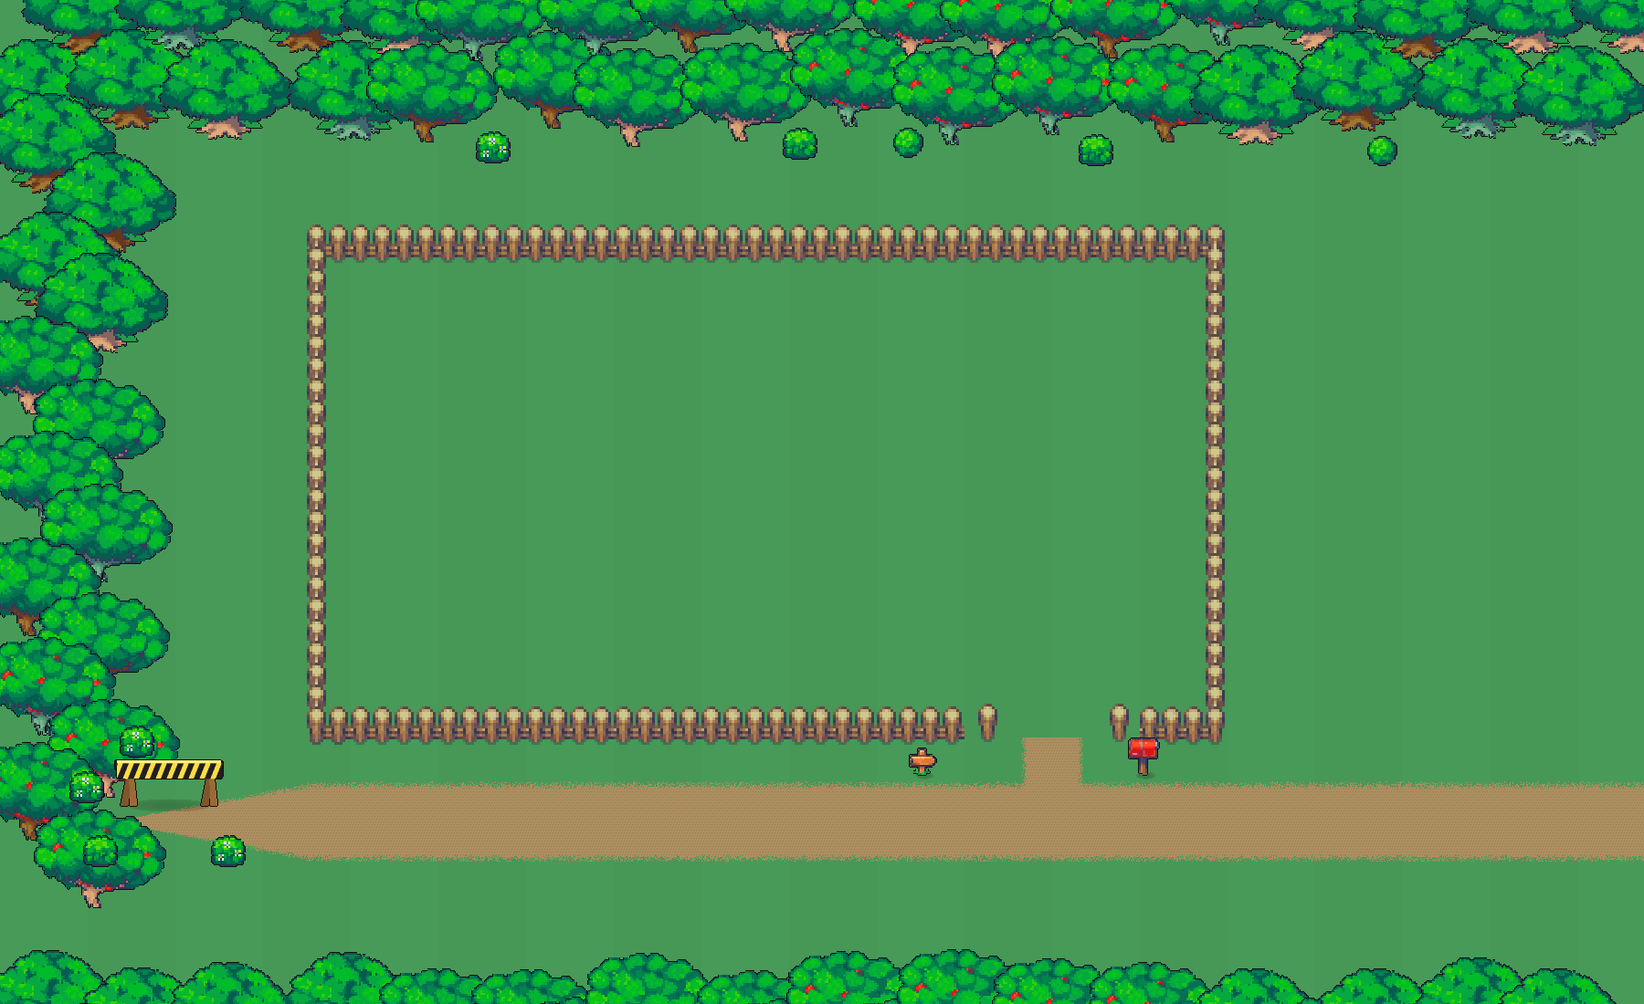
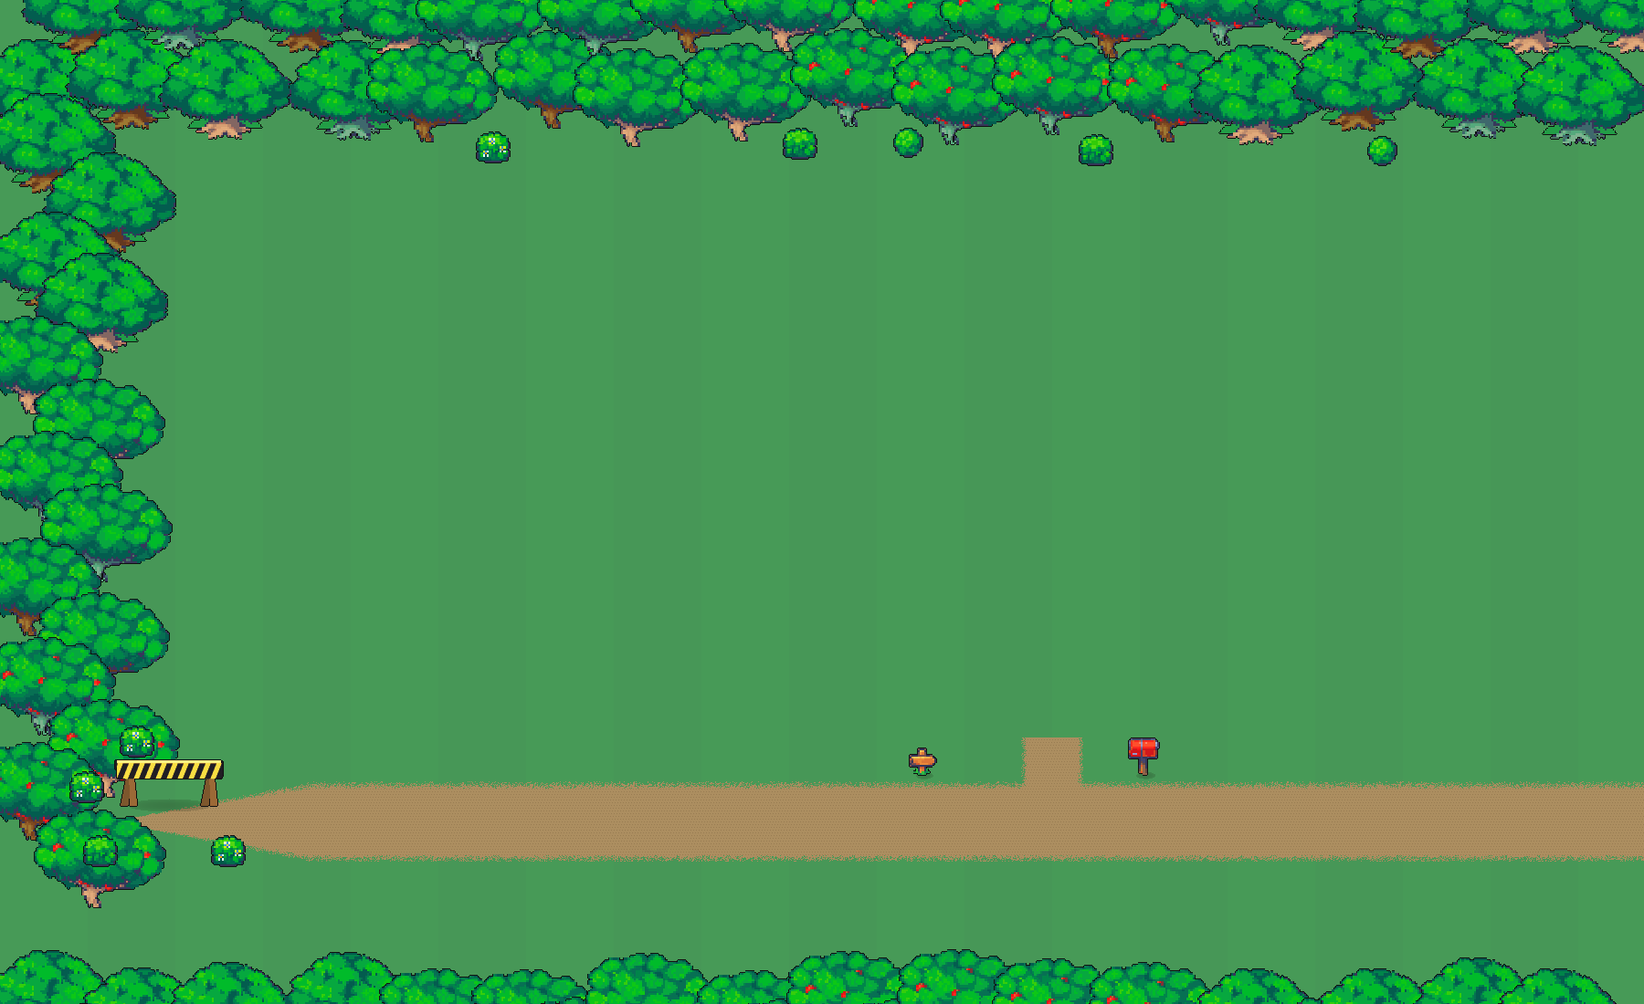
🌱 THE LAND GROWS WITH THE LADDER — tiered fences
Trym: "A tent should have the least amount of space, level 2 some more,
and level 3 houses maximum space."

  ⛺ tier 1 — a cosy fenced corner by the gate (528×384)
  🛖 tier 2 — the fence pushes west and north (768×480)
  🏠 tier 3 — the whole clearing is yours (1008×576)

Nested rects share the south-east corner and the ONE gate, so growth
only ever ADDS land — nothing placed is orphaned by an upgrade. The
fence left the baked plate entirely: each tier ships ov-fyard<t> (north
+ verticals, low z) + ov-fsouth<t> (south row, y-sorted so the pickets
overflow the banana), swapped live by refreshFence() with their own
colliders. Upgrading re-fences on the spot: "🌱 the fence moved out —
more land is yours."

Placement, ghost clamps, and the claim trigger all read the CURRENT
tier's plot; tent + bed defaults moved inside the tier-1 yard; legacy
saves with out-of-fence spots come home to the defaults. The ?hstest
tent/full scenarios were re-laid inside tier 1 (28 items in the cosy
yard = a proper density stress), max pins its pre-tier layout.

Verified in-pane: tier-1 postcard (tent + bed + 28-item full), tier 2
and 3 fence swaps, gate routing, bed collider.

Changed region(s): [[0.1867, 0.2164, 0.7467, 0.7418]]

diff --git a/src/scripts/banana-homestead.js b/src/scripts/banana-homestead.js
@@ -12,7 +12,7 @@ import { mountHud, coinBalance } from '../lib/world-hud.js';
 import { initTravel } from './world-travel.js';
 import { askName } from '../lib/banana-id.js';
 import { worldOwner, worldSid } from '../lib/world.js';
-import { WORLD, BOUND, ROAD, GATE, SPAWN, FENCE, PLOT, BED, TENT, STRUCTS, STRUCT_STYLES,
+import { WORLD, BOUND, ROAD, GATE, SPAWN, FENCE_TIERS, BED, TENT, STRUCTS, STRUCT_STYLES,
   MAILBOX, SIGN, OB_RECTS, OVERLAYS } from './homestead-geo.js';
 import { DECOR } from '../data/decor.js';
 
@@ -102,29 +102,26 @@ function applyTestScenario(kind) {
     return;
   }
   if (kind === 'claimed') s = base;
+  // ⚠ 'tent'/'full' are stage 1 = the TIER-1 yard (x 864-1296, y 494-768,
+  // tent at 1000,560, bed at 1010,730) — every position must fit INSIDE it
   if (kind === 'tent') {
     s = { ...base, stage: 1,
-      items: [{ id: 'sunflower', x: 480, y: 520 }, { id: 'bench', x: 640, y: 380 }],
+      items: [{ id: 'sunflower', x: 900, y: 540 }, { id: 'bench', x: 1150, y: 530 }],
       shed: [{ id: 'lantern' }] };
   }
   if (kind === 'full') {
+    const ids = ['sunflower', 'redflower', 'blueflower', 'pinkvase', 'bush', 'bush2',
+      'stump', 'mushrooms', 'flowerbush', 'lantern', 'bench', 'table', 'chair',
+      'campfire', 'scarecrow', 'bananacrate'];
+    const spots = [
+      [880, 510], [1075, 510], [1130, 510], [1185, 510], [1240, 510],
+      [880, 560], [1080, 562], [1135, 560], [1190, 562], [1245, 560],
+      [880, 610], [935, 612], [990, 610], [1045, 612], [1100, 610], [1155, 612], [1210, 610], [1265, 612],
+      [1180, 660], [1235, 662], [1180, 712], [1240, 710],
+      [880, 762], [940, 760], [1000, 762], [1060, 760], [1120, 762], [1180, 760],
+    ];
     s = { ...base, stage: 1,
-      items: [
-        { id: 'statue', x: 430, y: 410 }, { id: 'bench', x: 620, y: 360 },
-        { id: 'table', x: 1050, y: 400 }, { id: 'campfire', x: 890, y: 580 },
-        { id: 'lantern', x: 990, y: 540 }, { id: 'lantern', x: 1180, y: 470 },
-        { id: 'sunflower', x: 400, y: 330 }, { id: 'redflower', x: 445, y: 340 },
-        { id: 'blueflower', x: 490, y: 330 }, { id: 'pinkvase', x: 545, y: 350 },
-        { id: 'bush', x: 1250, y: 350 }, { id: 'bush', x: 1230, y: 560 },
-        { id: 'stump', x: 960, y: 660 }, { id: 'scarecrow', x: 560, y: 540 },
-        { id: 'sunflower', x: 1120, y: 340 }, { id: 'redflower', x: 1165, y: 355 },
-        { id: 'blueflower', x: 600, y: 330 }, { id: 'pinkvase', x: 655, y: 345 },
-        { id: 'sunflower', x: 705, y: 330 }, { id: 'bush', x: 420, y: 480 },
-        { id: 'bush', x: 400, y: 630 }, { id: 'stump', x: 430, y: 730 },
-        { id: 'lantern', x: 1140, y: 720 }, { id: 'campfire', x: 1255, y: 700 },
-        { id: 'table', x: 910, y: 340 }, { id: 'bench', x: 1000, y: 320 },
-        { id: 'statue', x: 1255, y: 630 }, { id: 'scarecrow', x: 850, y: 710 },
-      ],
+      items: spots.map(([x, y], i) => ({ id: ids[i % ids.length], x, y })),
       shed: [{ id: 'bush' }, { id: 'stump' }, { id: 'pinkvase' }],
       bed: [
         { crop: 'tomato', waters: 0, last: '', planted: day },
@@ -156,7 +153,10 @@ function applyTestScenario(kind) {
     const fillers = ['bush', 'bush2', 'flowerbush', 'sunflower', 'redflower', 'blueflower'];
     let fi = 0;
     while (items.length < 56) { put2(fillers[fi % fillers.length], 980 + (fi % 5) * 68, 660 + Math.floor(fi / 5) * 52); fi++; }
+    // 'max' predates the land tiers: its layout was placed around the house at
+    // (760,430) and the bed at (610,700) — pin those spots explicitly
     s = { ...base, stage: 3, items,
+      home: { x: 760, y: 430 }, bedAt: { x: 610, y: 700 },
       shed: [{ id: 'statue' }, { id: 'fountain' }, { id: 'coop' }, { id: 'bananacrate' }],
       bed: [
         { crop: 'tomato', waters: 3, last: '', planted: day },
@@ -196,6 +196,14 @@ function init(visitDoc, visitMiss) {
   const pct = (v, span) => (v / span * 100) + '%';
 
   const state = visiting ? visitDoc : withHome(loadState());
+  {
+    // legacy fixup: saves minted before the land tiers may hold spots that
+    // now sit OUTSIDE the current fence — those come home to the defaults
+    const P = FENCE_TIERS[Math.max(1, Math.min(state.stage, 3))].plot;
+    const inP = (p) => p && p.x > P[0] - 60 && p.x < P[2] + 60 && p.y > P[1] - 60 && p.y < P[3] + 60;
+    if (!inP(state.home)) state.home = { x: TENT.x, y: TENT.y };
+    if (!inP(state.bedAt)) state.bedAt = { x: BED.def.x, y: BED.def.y };
+  }
   // ⚠ a visitor's save is a NO-OP twice over: never write their yard into
   // hs-v1, never push their yard to the DO as ours
   const save = visiting ? () => {} : () => {
@@ -295,6 +303,33 @@ function init(visitDoc, visitMiss) {
     world.appendChild(d);
   });
 
+  // ---- 🌱 THE LAND GROWS WITH THE LADDER ----------------------------------
+  // tent = a cosy corner, a real roof pushes the fence out, the house takes
+  // the whole clearing (Trym). Two overlays per tier: the yard rows sit low,
+  // the south row y-sorts so the pickets overflow the banana.
+  const fenceTier = () => Math.max(1, Math.min(state.stage, 3));
+  const plotNow = () => FENCE_TIERS[fenceTier()].plot;
+  let fenceCols = [], fenceEls = [], fenceOn = 0;
+  function refreshFence() {
+    const t = fenceTier();
+    if (t === fenceOn) return;
+    fenceOn = t;
+    const ft = FENCE_TIERS[t];
+    fenceCols = ft.cols;
+    fenceEls.forEach((el) => el.remove());
+    fenceEls = [ft.yard, ft.south].map((o) => {
+      const d = document.createElement('div');
+      d.className = 'hs-ov';
+      d.style.left = pct(o[1], W); d.style.top = pct(o[2], H);
+      d.style.width = pct(o[3], W); d.style.height = pct(o[4], H);
+      d.style.backgroundImage = "url('/assets/homestead/" + o[0] + "')";
+      depth(d, o[5]);
+      world.appendChild(d);
+      return d;
+    });
+  }
+  refreshFence();
+
   // the sign carries the homestead's NAME — the whole point of the sign
   const signName = document.createElement('div');
   signName.className = 'hs-signname';
@@ -393,6 +428,7 @@ function init(visitDoc, visitMiss) {
     if (x < BOUND || y < BOUND || y > H - BOUND) return true;
     if (x > W - BOUND && !inRoadLane(y)) return true;      // east = the road out
     for (const r of OB_RECTS) if (inRect(x, y, r)) return true;
+    for (const r of fenceCols) if (inRect(x, y, r)) return true;
     for (const r of liveRects) if (inRect(x, y, r)) return true;
     return false;
   }
@@ -875,8 +911,9 @@ function init(visitDoc, visitMiss) {
   // ---- 🪴 placing: the ghost + the confirm bar -----------------------------
   const snap = (v) => Math.round(v / 24) * 24;
   function spotOk(d, x, y) {
-    if (x - d.w / 2 < PLOT[0] || x + d.w / 2 > PLOT[2]) return false;
-    if (x < PLOT[0] + 10 || x > PLOT[2] - 10 || y < PLOT[1] + 24 || y > PLOT[3] - 6) return false;
+    const P = plotNow();
+    if (x - d.w / 2 < P[0] || x + d.w / 2 > P[2]) return false;
+    if (x < P[0] + 10 || x > P[2] - 10 || y < P[1] + 24 || y > P[3] - 6) return false;
     if (inRect(x, y, [state.bedAt.x - BED.w / 2 - 26, state.bedAt.y - BED.h - 46, state.bedAt.x + BED.w / 2 + 26, state.bedAt.y + 16])) return false;
     // keep clear of the structure's FOOTPRINT only — the front yard below the
     // porch stays decoratable (the max stress test caught the old box banning it)
@@ -894,8 +931,9 @@ function init(visitDoc, visitMiss) {
   function startPlacing(id, moving) {
     cancelPlacing();
     const d = DEX[id];
-    const x = snap(moving ? moving.x : Math.max(PLOT[0] + 60, Math.min(PLOT[2] - 60, pos.x)));
-    const y = snap(moving ? moving.y : Math.max(PLOT[1] + 60, Math.min(PLOT[3] - 30, pos.y)));
+    const P = plotNow();
+    const x = snap(moving ? moving.x : Math.max(P[0] + 60, Math.min(P[2] - 60, pos.x)));
+    const y = snap(moving ? moving.y : Math.max(P[1] + 60, Math.min(P[3] - 30, pos.y)));
     placing = { id, x, y, el: itemDiv({ id, x, y }, true), moving: moving || null };
     camFree = { x, y };   // one glide to the ghost — after this, only drags pan
     if (moving) { refreshItems(); }   // the original disappears while it moves
@@ -910,8 +948,9 @@ function init(visitDoc, visitMiss) {
   const fixDims = () => placing.key === 'bed' ? { w: BED.w, h: BED.h } : STRUCTS[placing.key];
   function homeOk(x, y) {
     const d = fixDims();
-    if (x - d.w / 2 < PLOT[0] - 2 || x + d.w / 2 > PLOT[2] + 2) return false;
-    if (y - d.h < PLOT[1] - 44 || y > PLOT[3] - 8) return false;
+    const P = plotNow();
+    if (x - d.w / 2 < P[0] - 2 || x + d.w / 2 > P[2] + 2) return false;
+    if (y - d.h < P[1] - 44 || y > P[3] - 8) return false;
     const foot = [x - d.w * 0.52, y - d.h * 0.62, x + d.w * 0.52, y + 12];
     if (placing.key !== 'bed') {   // structures keep off the bed…
       const b = [state.bedAt.x - BED.w / 2 - 20, state.bedAt.y - BED.h - 40, state.bedAt.x + BED.w / 2 + 20, state.bedAt.y + 16];
@@ -976,8 +1015,11 @@ function init(visitDoc, visitMiss) {
     camFree = null;
     view.classList.remove('is-placing');
     save();
+    const grew = fenceTier() !== fenceOn;
+    refreshFence();
     refreshTent(); refreshBed(); rebuildSolids(); refreshItems(); refreshHud();
     float(x, y - (key === 'bed' ? BED.h : STRUCTS[key].h) - 8, '✓');
+    if (grew) setTimeout(() => toast('🌱 the fence moved out — more land is yours'), 1400);
   }
 
   function updateGhost() {
@@ -1149,11 +1191,13 @@ function init(visitDoc, visitMiss) {
     const wy = (e.clientY - r.top + camY) / scale;
     if (placing.home) {
       const d = fixDims();
-      placing.x = snap(Math.max(PLOT[0] + d.w / 2, Math.min(PLOT[2] - d.w / 2, wx)));
-      placing.y = snap(Math.max(PLOT[1] + Math.min(d.h * 0.5, 120), Math.min(PLOT[3] - 10, wy)));
+      const P = plotNow();
+      placing.x = snap(Math.max(P[0] + d.w / 2, Math.min(P[2] - d.w / 2, wx)));
+      placing.y = snap(Math.max(P[1] + Math.min(d.h * 0.5, 120), Math.min(P[3] - 10, wy)));
     } else {
-      placing.x = snap(Math.max(PLOT[0] + 12, Math.min(PLOT[2] - 12, wx)));
-      placing.y = snap(Math.max(PLOT[1] + 26, Math.min(PLOT[3] - 8, wy)));
+      const P = plotNow();
+      placing.x = snap(Math.max(P[0] + 12, Math.min(P[2] - 12, wx)));
+      placing.y = snap(Math.max(P[1] + 26, Math.min(P[3] - 8, wy)));
     }
     updateGhost();
   }
@@ -1323,7 +1367,8 @@ function init(visitDoc, visitMiss) {
       depth(meEl, pos.y);
     }
     // stepping INTO the yard (through the south gate) triggers the claim
-    if (!state.claimedAt && pos.x > FENCE[0] && pos.x < FENCE[2] && pos.y < FENCE[3] - 26) offerClaim();
+    const F1 = FENCE_TIERS[1].fence;
+    if (!state.claimedAt && pos.x > F1[0] && pos.x < F1[2] && pos.y > F1[1] && pos.y < F1[3] - 26) offerClaim();
     drawMe();
     doorTick();
     cam();

diff --git a/src/scripts/homestead-geo.js b/src/scripts/homestead-geo.js
@@ -7,11 +7,13 @@ export const SPAWN = { x: 1650, y: 900 };
 export const EXIT_EAST = { x: 1760, y: 900, r: 60 };
 export const FENCE = [336, 240, 1344, 816];
 export const PLOT = [384, 302, 1296, 768];
-export const BED = { w: 280, h: 100, def: { x: 610, y: 700 }, slots: [[-90, -32], [-20, -32], [50, -32], [120, -32]] };
-export const TENT = { x: 760, y: 430, w: 140, h: 136, solid: [-62, -20, 62, 4] };
+// 🌱 land grows with the ladder: stage 0-1 → tier 1, 2 → 2, 3 → 3
+export const FENCE_TIERS = {"1": {"fence": [816, 432, 1344, 816], "plot": [864, 494, 1296, 768], "cols": [[816, 450, 1344, 464], [816, 786, 1104, 812], [1200, 786, 1344, 812], [818, 450, 836, 786], [1320, 450, 1340, 786]], "yard": ["ov-fyard1.png", 816, 432, 528, 336, 464], "south": ["ov-fsouth1.png", 816, 764, 528, 56, 816]}, "2": {"fence": [576, 336, 1344, 816], "plot": [624, 398, 1296, 768], "cols": [[576, 354, 1344, 368], [576, 786, 1104, 812], [1200, 786, 1344, 812], [578, 354, 596, 786], [1320, 354, 1340, 786]], "yard": ["ov-fyard2.png", 576, 336, 768, 432, 368], "south": ["ov-fsouth2.png", 576, 764, 768, 56, 816]}, "3": {"fence": [336, 240, 1344, 816], "plot": [384, 302, 1296, 768], "cols": [[336, 258, 1344, 272], [336, 786, 1104, 812], [1200, 786, 1344, 812], [338, 258, 356, 786], [1320, 258, 1340, 786]], "yard": ["ov-fyard3.png", 336, 240, 1008, 528, 272], "south": ["ov-fsouth3.png", 336, 764, 1008, 56, 816]}};
+export const BED = { w: 280, h: 100, def: { x: 1010, y: 730 }, slots: [[-90, -32], [-20, -32], [50, -32], [120, -32]] };
+export const TENT = { x: 1000, y: 560, w: 140, h: 136, solid: [-62, -20, 62, 4] };
 export const STRUCT_STYLES = {1: ["tent1", "tent2", "tent3", "tent4", "tent5", "tent6"], 2: ["mob1", "mob2", "mob3", "mob4", "mob5", "mob6", "mob7", "mob8", "mobm1", "mobm2", "mobm3", "mobm4", "mobm5", "mobm6", "mobm7", "mobm8", "barn", "hloftgreen", "hloftgrey", "hloftred", "hloftyellow"], 3: ["country", "haunted", "japanese", "villa1", "villa2", "villa3", "villa4", "villa5", "condoa", "condo6", "condo9"]};
 export const STRUCTS = { tent1: { w: 140, h: 136 }, tent2: { w: 140, h: 136 }, tent3: { w: 140, h: 136 }, tent4: { w: 117, h: 92 }, tent5: { w: 117, h: 92 }, tent6: { w: 117, h: 92 }, mob1: { w: 282, h: 163 }, mob2: { w: 282, h: 163 }, mob3: { w: 282, h: 163 }, mob4: { w: 282, h: 163 }, mob5: { w: 244, h: 186 }, mob6: { w: 244, h: 186 }, mob7: { w: 244, h: 186 }, mob8: { w: 244, h: 186 }, mobm1: { w: 224, h: 163 }, mobm2: { w: 224, h: 163 }, mobm3: { w: 224, h: 163 }, mobm4: { w: 224, h: 163 }, mobm5: { w: 180, h: 172 }, mobm6: { w: 180, h: 172 }, mobm7: { w: 180, h: 172 }, mobm8: { w: 180, h: 172 }, barn: { w: 188, h: 250 }, hloftgreen: { w: 433, h: 202 }, hloftgrey: { w: 433, h: 202 }, hloftred: { w: 433, h: 202 }, hloftyellow: { w: 433, h: 202 }, country: { w: 356, h: 322 }, haunted: { w: 278, h: 321 }, japanese: { w: 354, h: 330 }, villa1: { w: 229, h: 331 }, villa2: { w: 229, h: 331 }, villa3: { w: 229, h: 331 }, villa4: { w: 229, h: 331 }, villa5: { w: 229, h: 331 }, condoa: { w: 103, h: 309 }, condo6: { w: 285, h: 327 }, condo9: { w: 159, h: 319 } };
 export const MAILBOX = { x: 1252, y: 850 };
 export const SIGN = { x: 1010, y: 850 };
-export const OB_RECTS = [[336, 258, 1344, 272], [336, 786, 1104, 812], [1200, 786, 1344, 812], [338, 258, 356, 786], [1320, 258, 1340, 786], [1238, 838, 1266, 852], [994, 840, 1026, 852], [141, 868, 229, 890]];
-export const OVERLAYS = [['ov-fsouth.png', 336, 764, 1008, 56, 816], ['ov-1.png', 1235, 808, 35, 42, 850], ['ov-2.png', 995, 819, 31, 31, 850]];
+export const OB_RECTS = [[1238, 838, 1266, 852], [994, 840, 1026, 852], [141, 868, 229, 890]];
+export const OVERLAYS = [['ov-0.png', 1235, 808, 35, 42, 850], ['ov-1.png', 995, 819, 31, 31, 850]];

diff --git a/tools/build-homestead-scene.py b/tools/build-homestead-scene.py
@@ -50,15 +50,25 @@ BOUND = 96
 # (bushes + a sawhorse, the park's own under-construction language).
 ROAD_Y = 900                     # the bottom road's spine
 ROAD_HW = 44
-# fence rectangle on the TILE GRID (tiles, inclusive): the yard
-FX0, FY0, FX1, FY1 = 7, 5, 27, 16          # px 336..1344 x 240..816
+# 🌱 LAND GROWS WITH THE LADDER (Trym, 3 Aug): the tent gets a cosy corner,
+# a real roof pushes the fence out, the house takes the whole clearing.
+# Nested tile rects sharing the SOUTH-EAST corner and the ONE gate — growth
+# only ever ADDS land, so nothing placed can be orphaned by an upgrade.
+FENCE_TIERS = {1: (17, 9, 27, 16), 2: (12, 7, 27, 16), 3: (7, 5, 27, 16)}
+FX0, FY0, FX1, FY1 = FENCE_TIERS[3]        # the outer property line
 GATE_COLS = (23, 24)             # SOUTH-side gap → x 1104..1200 (walk up + in)
 GATE_X = (GATE_COLS[0] + 1) * T  # the gap's centre ≈ 1152
 FENCE_PX = (FX0 * T, FY0 * T, (FX1 + 1) * T, (FY1 + 1) * T)
-PLOT = (FX0 * T + T, FY0 * T + T + 14, (FX1 + 1) * T - T, (FY1 + 1) * T - T)
-BED = (470, 600, 750, 700)       # tilled soil rect (x0,y0,x1,y1)
-BED_SLOTS = [(520, 668), (590, 668), (660, 668), (730, 668)]
-TENT = (760, 430)                # (cx, base) — stage 1, client-drawn, faces south
+
+
+def tier_plot(t):
+    fx0, fy0, fx1, fy1 = FENCE_TIERS[t]
+    return (fx0 * T + T, fy0 * T + T + 14, (fx1 + 1) * T - T, (fy1 + 1) * T - T)
+
+
+PLOT = tier_plot(3)
+TENT = (1000, 560)               # (cx, base) — INSIDE the tier-1 yard
+BED_DEF = (1010, 730)            # ditto — the starter bed's home
 MAILBOX_AT = (1252, 850)         # OUTSIDE the fence, on the road by the gate
 SIGN_AT = (1010, 850)            # outside, on the road's north shoulder
 SAWHORSE_AT = (185, 886)         # the west end goes nowhere yet
@@ -197,62 +207,75 @@ def fence_kit():
     return kit
 
 
-fs_x0, fs_y0 = FX0 * T, FY1 * T - 4
-fence_south = Image.new('RGBA', ((FX1 + 1 - FX0) * T, T + 8), (0, 0, 0, 0))
+# 🌱 the fence is CLIENT-DRAWN per tier now, never baked: the engine swaps
+# ov-fyard<t> (north + verticals, low z) and ov-fsouth<t> (the south row,
+# y-sorted so it overflows the banana) when the land grows. Colliders ride
+# each tier's entry in FENCE_TIERS_OUT.
+FENCE_TIERS_OUT = {}
 
 
-def lay_fence():
-    kit = fence_kit()
-    if not kit['h'] or not kit['v_w']:
-        print('  no fence tiles — fence skipped')
-        return
+def lay_fence_tier(kit, tier):
+    fx0, fy0, fx1, fy1 = FENCE_TIERS[tier]
+    yard = Image.new('RGBA', ((fx1 + 1 - fx0) * T, (fy1 - fy0) * T), (0, 0, 0, 0))
+    south = Image.new('RGBA', ((fx1 + 1 - fx0) * T, T + 8), (0, 0, 0, 0))
 
     def stamp(tile, tx, ty):
-        if tile:
-            im.alpha_composite(tile, (tx * T, ty * T))
-            if ty == FY1:   # the south row ALSO lands on the occlusion overlay
-                fence_south.alpha_composite(tile, (tx * T - fs_x0, ty * T - fs_y0))
+        if not tile:
+            return
+        if ty == fy1:
+            south.alpha_composite(tile, ((tx - fx0) * T, ty * T - (fy1 * T - 4)))
+        else:
+            yard.alpha_composite(tile, ((tx - fx0) * T, (ty - fy0) * T))
     # north: end pieces carry the corners themselves
-    stamp(kit['endl'], FX0, FY0)
-    for tx in range(FX0 + 1, FX1):
-        stamp(kit['h'] if tx % 2 else kit['h2'], tx, FY0)
-    stamp(kit['endr'], FX1, FY0)
+    stamp(kit['endl'], fx0, fy0)
+    for tx in range(fx0 + 1, fx1):
+        stamp(kit['h'] if tx % 2 else kit['h2'], tx, fy0)
+    stamp(kit['endr'], fx1, fy0)
     # verticals live in the SAME columns as the run ends
-    for ty in range(FY0 + 1, FY1):
-        stamp(kit['v_w'], FX0, ty)
-        stamp(kit['v_e'], FX1, ty)
+    for ty in range(fy0 + 1, fy1):
+        stamp(kit['v_w'], fx0, ty)
+        stamp(kit['v_e'], fx1, ty)
     # south: junction ends (nub where the vertical arrives) + the gate posts
-    stamp(kit['jl'], FX0, FY1)
-    for tx in range(FX0 + 1, FX1):
+    stamp(kit['jl'], fx0, fy1)
+    for tx in range(fx0 + 1, fx1):
         if tx in GATE_COLS:
             continue
         if tx == GATE_COLS[0] - 1:
-            stamp(kit['gl'], tx, FY1)
+            stamp(kit['gl'], tx, fy1)
         elif tx == GATE_COLS[-1] + 1:
-            stamp(kit['gr'], tx, FY1)
+            stamp(kit['gr'], tx, fy1)
         else:
-            stamp(kit['h'] if tx % 2 else kit['h2'], tx, FY1)
-    stamp(kit['jr'], FX1, FY1)
+            stamp(kit['h'] if tx % 2 else kit['h2'], tx, fy1)
+    stamp(kit['jr'], fx1, fy1)
+    yard.save(os.path.join(OUT, 'ov-fyard%d.png' % tier), optimize=True)
+    south.save(os.path.join(OUT, 'ov-fsouth%d.png' % tier), optimize=True)
     # colliders from the measured post columns
     mid = 18
-    fy0, fy1 = FY0 * T + mid, FY1 * T + mid
-    COLLIDERS.append((FX0 * T, fy0, (FX1 + 1) * T, fy0 + 14))                  # north
-    # ⚠ the south band is DEEPER (26px, not 14): a banana at y 800-816 stood
-    # visually ON the pickets (Trym's screenshot) — now it can't get there
-    COLLIDERS.append((FX0 * T, fy1, GATE_COLS[0] * T, fy1 + 26))               # south L of gate
-    COLLIDERS.append(((GATE_COLS[-1] + 1) * T, fy1, (FX1 + 1) * T, fy1 + 26))  # south R of gate
-    COLLIDERS.append((FX0 * T + 2, fy0, FX0 * T + 20, fy1))                    # west posts
-    COLLIDERS.append((FX1 * T + 24, fy0, FX1 * T + 44, fy1))                   # east posts
+    cy0, cy1 = fy0 * T + mid, fy1 * T + mid
+    cols = [
+        (fx0 * T, cy0, (fx1 + 1) * T, cy0 + 14),                   # north
+        # ⚠ the south band is DEEPER (26px): a banana at the pickets' feet
+        # stood visually ON them (Trym's screenshot)
+        (fx0 * T, cy1, GATE_COLS[0] * T, cy1 + 26),                # south L of gate
+        ((GATE_COLS[-1] + 1) * T, cy1, (fx1 + 1) * T, cy1 + 26),   # south R of gate
+        (fx0 * T + 2, cy0, fx0 * T + 20, cy1),                     # west posts
+        (fx1 * T + 24, cy0, fx1 * T + 44, cy1),                    # east posts
+    ]
+    FENCE_TIERS_OUT[tier] = {
+        'fence': [fx0 * T, fy0 * T, (fx1 + 1) * T, (fy1 + 1) * T],
+        'plot': list(tier_plot(tier)),
+        'cols': [list(map(int, c)) for c in cols],
+        'yard': ['ov-fyard%d.png' % tier, fx0 * T, fy0 * T, yard.width, yard.height, fy0 * T + 32],
+        'south': ['ov-fsouth%d.png' % tier, fx0 * T, fy1 * T - 4, south.width, south.height, (fy1 + 1) * T],
+    }
+    print('  fence tier %d: ov-fyard%d + ov-fsouth%d' % (tier, tier, tier))
 
 
-FENCE_SOUTH_OV = None
 if HAVE_PACK:
-    lay_fence()
-    # saved AFTER lay_fence filled it; base = the fence row's foot line
-    _fsp = os.path.join(OUT, 'ov-fsouth.png')
-    fence_south.save(_fsp, optimize=True)
-    OVERLAYS.append(('ov-fsouth.png', FX0 * T, FY1 * T - 4, (FX1 + 1 - FX0) * T, T + 8, (FY1 + 1) * T))
-    print('  ov-fsouth.png (south-fence occlusion overlay)')
+    _kit = fence_kit()
+    if _kit['h'] and _kit['v_w']:
+        for _t in (1, 2, 3):
+            lay_fence_tier(_kit, _t)
 
 # ---- the tilled bed: a MOVABLE overlay sprite, never baked ----------------
 # (Trym, 3 Aug: the user decides where the patch lives — grass survives under
@@ -533,7 +556,9 @@ def emit():
     L.append('export const EXIT_EAST = { x: %d, y: %d, r: 60 };' % (W - 40, ROAD_Y))
     L.append('export const FENCE = %s;' % list(FENCE_PX))
     L.append('export const PLOT = %s;' % list(PLOT))
-    L.append('export const BED = { w: %d, h: %d, def: { x: 610, y: 700 }, slots: [[-90, -32], [-20, -32], [50, -32], [120, -32]] };' % (BED_W, BED_H))
+    L.append('// 🌱 land grows with the ladder: stage 0-1 → tier 1, 2 → 2, 3 → 3')
+    L.append('export const FENCE_TIERS = %s;' % __import__('json').dumps(FENCE_TIERS_OUT))
+    L.append('export const BED = { w: %d, h: %d, def: { x: %d, y: %d }, slots: [[-90, -32], [-20, -32], [50, -32], [120, -32]] };' % (BED_W, BED_H, BED_DEF[0], BED_DEF[1]))
     L.append('export const TENT = { x: %d, y: %d, w: %d, h: %d, solid: [-%d, -20, %d, 4] };'
              % (TENT[0], TENT[1], TENT_SIZE[0], TENT_SIZE[1],
                 max(20, TENT_SIZE[0] // 2 - 8), max(20, TENT_SIZE[0] // 2 - 8)))
